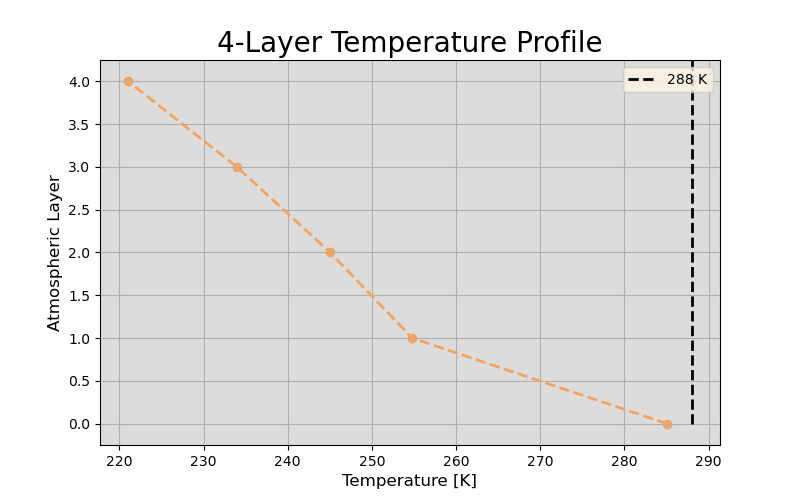
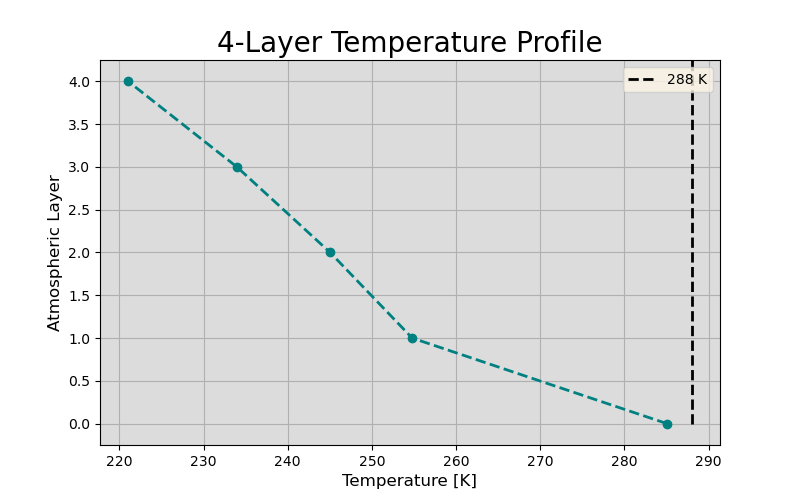
updates

diff --git a/Labs/Lab3_EnergyBalance/Lab3.py b/Labs/Lab3_EnergyBalance/Lab3.py
@@ -112,7 +112,7 @@ def create_coef_matrix(num_layers = 1, e = 1):
 
 create_coef_matrix(4, 0.1)
 
-def model_atmosphere(num_layers, solar_irradiance, e, albedo, sw_absorbing_layer = 0):
+def model_atmosphere(num_layers, solar_irradiance, e, a, sw_absorbing_layer = 0):
     '''
     A*fluxes = b, solving for fluxes!
     '''
@@ -125,7 +125,7 @@ def model_atmosphere(num_layers, solar_irradiance, e, albedo, sw_absorbing_layer
     # create b with the first value as solar irradiance
     # (and everything else zero)
     b = np.zeros(num_layers+1)
-    b[sw_absorbing_layer] = -(solar_irradiance * (1 - albedo) / 4) # -S/4 * (1 - alpha)
+    b[sw_absorbing_layer] = -(solar_irradiance * (1 - a) / 4) # -S/4 * (1 - alpha)
     if DEBUG:
         print("A is: ", A)
         print("b is: ", b)
@@ -163,7 +163,7 @@ def experiment1():
     surf_temps = []
 
     for e in emissivities:
-        temp = model_atmosphere(1, S_0, e, 0)
+        temp = model_atmosphere(1, S_0, e, 0.3)
         surf_temps.append(temp[0])
 
     fig, ax = plt.subplots(1, 1, figsize = (8, 5))
@@ -180,10 +180,10 @@ def experiment1():
     ax.set_title("1-Layer Atmosphere Surface Temperature")
     ax.set_xlabel("Emissivity")
     ax.set_ylabel("Surface Temperature [K]")
-    ax.legend()
+    ax.legend(loc = 'best')
     plt.show()
 
-def plot_nlayer_surftemp(num_layers, solar_irradiance, e, albedo, temp_marker = None, title = None):
+def plot_nlayer_surftemp(num_layers, solar_irradiance, e, a, temp_marker = None, title = None):
     #create N-layer model
 
     #create number of layers, starting with 0 -> 10 (count numbers/ints)
@@ -191,7 +191,7 @@ def plot_nlayer_surftemp(num_layers, solar_irradiance, e, albedo, temp_marker = 
     #create empty surf_temp list
     surf_temps = []
     for layer in layers:
-        temp = model_atmosphere(layer, solar_irradiance, e, albedo)
+        temp = model_atmosphere(layer, solar_irradiance, e, a)
         surf_temps.append(temp[0])
 
     fig, ax = plt.subplots(1, 1, figsize = (8, 5))
@@ -220,7 +220,9 @@ def plot_nlayer_surftemp(num_layers, solar_irradiance, e, albedo, temp_marker = 
         ax.set_title("N-Layer Atmosphere Surface Temperature")
     ax.set_xbound(-TOL, num_layers + TOL)
 
-    if (num_layers > 10):
+    if (num_layers > 100):
+        ax.set_xticks(range(0,num_layers+1, 10))
+    elif(num_layers > 10):
         ax.set_xticks(range(0,num_layers+1, 5))
     else:
         ax.set_xticks(range(0,num_layers+1))
@@ -229,19 +231,19 @@ def plot_nlayer_surftemp(num_layers, solar_irradiance, e, albedo, temp_marker = 
     ax.set_xlabel("Number of Layers")
 
     if temp_marker is not None:
-        ax.legend()
+        ax.legend(loc = 'best')
 
     plt.show()
 
-def plot_temp_profile(num_layers, solar_irradiance, e, albedo,
+def plot_temp_profile(num_layers, solar_irradiance, e, a,
                       temp_marker = None, title = None, sw_absorbing_layer = 0):
 
     #create the model and get temps
-    temp_prof = model_atmosphere(num_layers, solar_irradiance, e, albedo, sw_absorbing_layer=sw_absorbing_layer)
+    temp_prof = model_atmosphere(num_layers, solar_irradiance, e, a, sw_absorbing_layer=sw_absorbing_layer)
     fig, ax = plt.subplots(1, 1, figsize = (8, 5))
-    ax.scatter(temp_prof, np.arange(num_layers+1), color = COLOR2)
-    ax.plot(temp_prof, np.arange(num_layers+1), color = COLOR2,
-            linestyle = '--', linewidth = 2)
+    ax.scatter(temp_prof, np.arange(num_layers+1), color = COLOR1, zorder = 5)
+    ax.plot(temp_prof, np.arange(num_layers+1), color = COLOR1,
+            linestyle = '--', linewidth = 2, zorder = 5)
 
     #If the temp marker is indicated and a proper value
     if temp_marker is not None:
@@ -254,7 +256,7 @@ def plot_temp_profile(num_layers, solar_irradiance, e, albedo,
                         linestyles='--',
                         linewidth = 2
             )
-            ax.legend()
+            ax.legend(loc = 'best')
         else:
             raise ValueError("temp_marker must be a float or int!")
 
@@ -278,21 +280,21 @@ def validation_tests():
 
 
 S_0 = 1350 # Wm^-2
-albedo = 0.3 #Estimate for Earth Albedo
+a = 0.3 #Estimate for Earth Albedo
 #See Surface Temp based on N-Layers
 
 experiment1()
 
-plot_nlayer_surftemp(10, S_0, e = 0.255, albedo = albedo, temp_marker = 288)
+plot_nlayer_surftemp(10, S_0, e = 0.255, a = a, temp_marker = 288)
 
 #Show Earth's Temp profile
-plot_temp_profile(4, S_0, e = 0.255, albedo = albedo, temp_marker = 288)
+plot_temp_profile(4, S_0, e = 0.255, a = a, temp_marker = 288)
 
-plot_temp_profile(5, S_0, e = 0.255, albedo = albedo, temp_marker = 288)
+plot_temp_profile(5, S_0, e = 0.255, a = a, temp_marker = 288)
 
 #find difference between 4 and 5 layer surface temp)
-temp_4layer = model_atmosphere(4, S_0, e = 0.255, albedo = albedo)[0]
-temp_5layer = model_atmosphere(5, S_0, e = 0.255, albedo = albedo)[0]
+temp_4layer = model_atmosphere(4, S_0, e = 0.255, a = a)[0]
+temp_5layer = model_atmosphere(5, S_0, e = 0.255, a = a)[0]
 
 print(f"4-Layer Difference from 288K:\t {np.abs(288 - temp_4layer)}")
 print(f"5-Layer Difference from 288K:\t {np.abs(288 - temp_5layer)}")
@@ -300,10 +302,10 @@ print(f"Temperature Difference:\t {temp_5layer - temp_4layer}")
 
 
 #Check out Venus's surface temperature based on N-Layers
-plot_nlayer_surftemp(100,
+plot_nlayer_surftemp(120,
                      2600,
                      e = 1,
-                     albedo = 0.7,
+                     a = 0.77, #Bond albedo from NASA fact sheet
                      temp_marker= 700,
                      title = "N-Layer Venus Atmosphere"
                     )
@@ -312,7 +314,7 @@ plot_nlayer_surftemp(100,
 plot_temp_profile(num_layers = 5,
                   solar_irradiance = S_0,
                   e = 0.5,
-                  albedo = 0,
+                  a = 0,
                   title = "Nuclear Winter Temperature Profile",
                   sw_absorbing_layer = 5
 )
